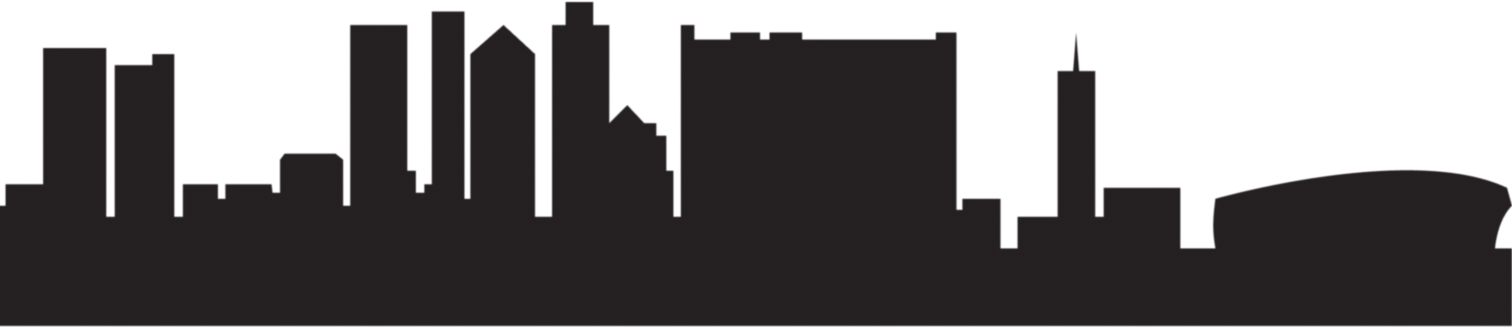
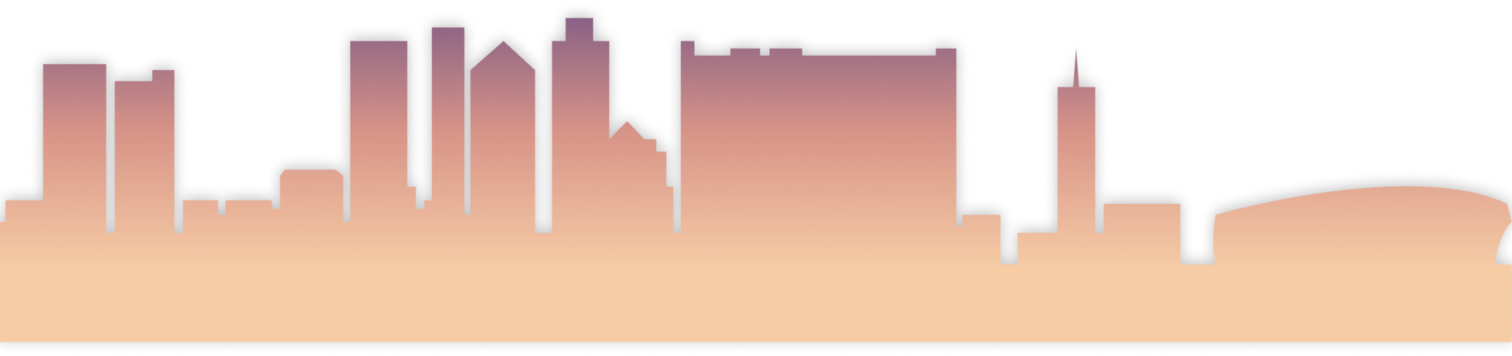
Redesign and responsiveness
Redesigned the background for better readability. Ensured the background is now responsive to screen sizes. Also added social links to the hero section.

diff --git a/src/components/hero.jsx b/src/components/hero.jsx
@@ -1,6 +1,5 @@
 import React, { useState } from 'react';
-import portrait from '../assets/rob.png';
-import avater from '../assets/rob-avatar.png';
+import { TERipple } from "tw-elements-react";
 
 export default function Hero() {
   const [inputValue, setInputValue] = useState('');
@@ -15,7 +14,7 @@ export default function Hero() {
   return (
     <>
       <div className="h-screen flex items-center justify-center flex-col space-y-14">
-        <div className="text-7xl text-center text-shadow text-brand-coral font-bold font-pacifico [text-wrap:balance] bg-clip-text">the <span className="text-brand-coral inline-flex flex-col h-[calc(theme(fontSize.7xl)*theme(lineHeight.tight))] md:h-[calc(theme(fontSize.7xl)*theme(lineHeight.tight))] overflow-hidden">
+        <div className="text-7xl text-center text-shadow text-white font-bold font-pacifico [text-wrap:balance] bg-clip-text">the <span className="inline-flex flex-col h-[calc(theme(fontSize.7xl)*theme(lineHeight.tight))] md:h-[calc(theme(fontSize.7xl)*theme(lineHeight.tight))] overflow-hidden">
             <ul className="block animate-text-slide sm:text-center md:text-left leading-tight [&_li]:block">
                 <li>Ambitious</li>
                 <li>Fun</li>
@@ -25,15 +24,49 @@ export default function Hero() {
                 <li aria-hidden="true">Ambitious</li>
             </ul>
         </span><br/>Developer</div>
-        <h4 className="text-2xl text-shadow-sm text-slate-50 font-jua">My actual name is Rob<br/>I'm a full-stack developer.</h4>
+        <h4 className="text-2xl text-shadow-sm text-white font-jua">My actual name is Rob<br/>I'm a full-stack developer.</h4>
         <input
-          className="w-full lg:w-1/2 px-4 py-4 border bg-brand-coral border-gray-300 font-jua text-white placeholder-white rounded-2xl"
+          className="w-3/4 lg:w-1/2 px-4 py-4 border bg-brand-gunmetal border-gray-300 font-jua text-slate-200 placeholder-slate-200 rounded-2xl"
           type="text"
           placeholder="What do you want to know about Rob?"
           value={inputValue}
           onChange={(event) => setInputValue(event.target.value)}
           onKeyDown={handleInputKeyDown}
         />
+        <div className="flex items-center space-x-10">
+          <TERipple rippleColor="light">
+            <button
+              type="button"
+              className="inline-block rounded px-6 py-2.5 text-xs font-medium uppercase leading-normal text-white shadow-lg transition duration-150 ease-in-out hover:shadow-lg focus:shadow-lg focus:outline-none focus:ring-0 active:shadow-lg"
+              style={{ backgroundColor: "#8D9EC6" }}
+            >
+              <svg
+                xmlns="http://www.w3.org/2000/svg"
+                className="h-4 w-4"
+                fill="currentColor"
+                viewBox="0 0 24 24"
+              >
+                <path d="M12 0c-6.626 0-12 5.373-12 12 0 5.302 3.438 9.8 8.207 11.387.599.111.793-.261.793-.577v-2.234c-3.338.726-4.033-1.416-4.033-1.416-.546-1.387-1.333-1.756-1.333-1.756-1.089-.745.083-.729.083-.729 1.205.084 1.839 1.237 1.839 1.237 1.07 1.834 2.807 1.304 3.492.997.107-.775.418-1.305.762-1.604-2.665-.305-5.467-1.334-5.467-5.931 0-1.311.469-2.381 1.236-3.221-.124-.303-.535-1.524.117-3.176 0 0 1.008-.322 3.301 1.23.957-.266 1.983-.399 3.003-.404 1.02.005 2.047.138 3.006.404 2.291-1.552 3.297-1.23 3.297-1.23.653 1.653.242 2.874.118 3.176.77.84 1.235 1.911 1.235 3.221 0 4.609-2.807 5.624-5.479 5.921.43.372.823 1.102.823 2.222v3.293c0 .319.192.694.801.576 4.765-1.589 8.199-6.086 8.199-11.386 0-6.627-5.373-12-12-12z" />
+              </svg>
+            </button>
+          </TERipple>
+          <TERipple rippleColor="light">
+            <button
+              type="button"
+              className="inline-block rounded px-6 py-2.5 text-xs font-medium uppercase leading-normal text-white shadow-lg transition duration-150 ease-in-out hover:shadow-lg focus:shadow-lg focus:outline-none focus:ring-0 active:shadow-lg"
+              style={{ backgroundColor: "#8D9EC6" }}
+            >
+              <svg
+                xmlns="http://www.w3.org/2000/svg"
+                className="h-4 w-4"
+                fill="currentColor"
+                viewBox="0 0 24 24"
+              >
+                <path d="M4.98 3.5c0 1.381-1.11 2.5-2.48 2.5s-2.48-1.119-2.48-2.5c0-1.38 1.11-2.5 2.48-2.5s2.48 1.12 2.48 2.5zm.02 4.5h-5v16h5v-16zm7.982 0h-4.968v16h4.969v-8.399c0-4.67 6.029-5.052 6.029 0v8.399h4.988v-10.131c0-7.88-8.922-7.593-11.018-3.714v-2.155z" />
+              </svg>
+            </button>
+          </TERipple>
+        </div>
       </div>
     </>
   );

diff --git a/src/App.jsx b/src/App.jsx
@@ -2,41 +2,31 @@ import Hero from './components/hero'
 import React from 'react'
 import { SpeedInsights } from '@vercel/speed-insights/react';
 import { Parallax, ParallaxLayer } from '@react-spring/parallax';
-import mountains from './assets/parallax/mountains.png';
-import citythree from './assets/parallax/city-3.png';
-import citytwo from './assets/parallax/city-2.png';
-import cityone from './assets/parallax/city-1.png';
-import promenade from './assets/parallax/promenade.png';
-import ocean from './assets/parallax/beach-ocean.png';
 
 function App() {
 
   return (
     <div >
       <Parallax pages={2} className="w-full h-full bg-gradient-to-b from-gradient-orange to-gradient-yelow">
-        <ParallaxLayer offset={0.22} speed={-0.7}>
-          <img src={mountains} className="w-full"/>
+        <ParallaxLayer offset={0.29} speed={-0.7}>
+          <div className="bg-mountains bg-cover bg-top aspect-video lg:aspect-[168/53]"></div>
         </ParallaxLayer>
-        <ParallaxLayer offset={0.45} speed={-0.5}>
-          <img src={citythree} className="w-full"/>
+        <ParallaxLayer offset={0.55} speed={-0.5}>
+          <div className="bg-city-3 bg-cover bg-top h-[28%] min-w-full"></div>
         </ParallaxLayer>
-        <ParallaxLayer offset={0.41} speed={-0.3}>
-          <img src={citytwo} className="w-full"/>
+        <ParallaxLayer offset={0.5} speed={-0.3}>
+          <div className="bg-city-2 bg-cover bg-top h-1/3 min-w-full"></div>
         </ParallaxLayer>
-        <ParallaxLayer offset={0.54} speed={-0.1}>
-          <img src={cityone} className="w-full"/>
+        <ParallaxLayer offset={0.63} speed={-0.1}>
+          <div className="bg-city-1 bg-cover bg-top h-[26.27%] min-w-full"></div>
         </ParallaxLayer>
-        <ParallaxLayer offset={0.75} speed={0}>
-          <img src={promenade} className="w-full"/>
-        </ParallaxLayer>
-        <ParallaxLayer offset={0.85} speed={0}>
-          <img src={ocean} className="w-full"/>
+        <ParallaxLayer offset={0.77} speed={0}>
+          <div className="bg-beach bg-bottom bg-cover lg:bg-[length:100%_100%] h-[23%]"></div>
         </ParallaxLayer>
         <ParallaxLayer offset={0} speed={0}>
           <Hero />
         </ParallaxLayer>
-        <ParallaxLayer offset={1} speed={0} style={{backgroundColor:'#ADBDE3'}}>
-        </ParallaxLayer>
+        <ParallaxLayer offset={1} speed={0} style={{backgroundColor:'#ADBDE3'}}></ParallaxLayer>
       </Parallax>
       <SpeedInsights />
     </div>

diff --git a/tailwind.config.js b/tailwind.config.js
@@ -12,6 +12,7 @@ export default {
       colors: {
         'brand-gunmetal': '#2B303A',
         'brand-coral': '#F7877F',
+        'brand-dark-coral': '#E46D5E',
         'brand-vista-blue': '#8D9EC6',
         'brand-tea-green': '#D4E4BC',
         'brand-beige': '#EEF5DB',
@@ -28,13 +29,14 @@ export default {
         'jua': ['Jua', 'sans-serif'],
       },
       backgroundImage: {
-        'beach': "url('../src/assets/parallax/beach-ocean.png')",
+        'beach': "url('../src/assets/parallax/beach-and-promenade.png')",
         'city-1': "url('../src/assets/parallax/city-1.png')",
         'city-2': "url('../src/assets/parallax/city-2.png')",
         'city-3': "url('../src/assets/parallax/city-3.png')",
-        'devils-peak': "url('../src/assets/parallax/devils-peak.png')",
         'promenade': "url('../src/assets/parallax/promenade.png')",
-        'table-mountain': "url('../src/assets/parallax/table-mountain.png')"
+        'mountains': "url('../src/assets/parallax/mountains.png')",
+        'github': "url('../src/assets/github.png')",
+        'linkedin': "url('../src/assets/linkedin.png')",
       },
       animation: {
         'text-slide': 'text-slide 12.5s cubic-bezier(0.83, 0, 0.17, 1) infinite',
